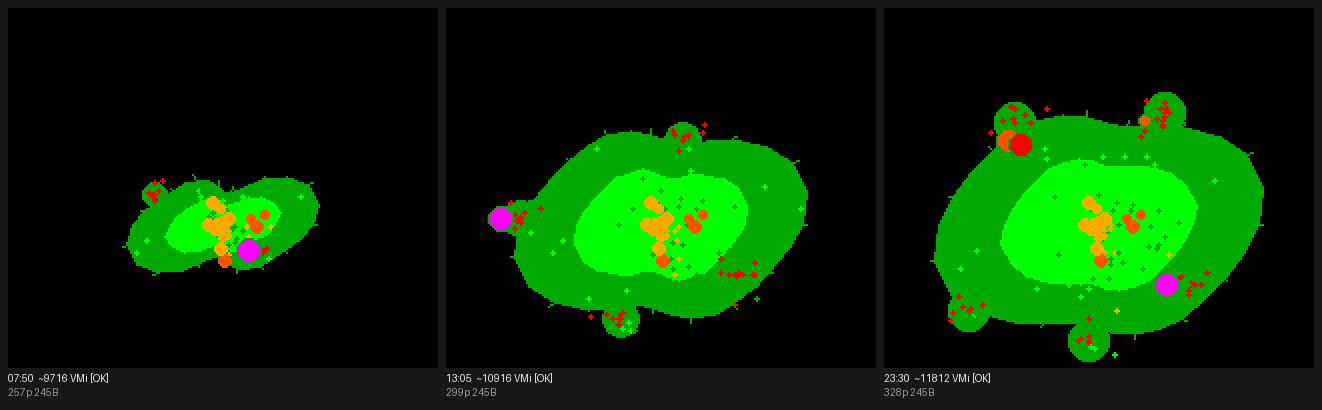
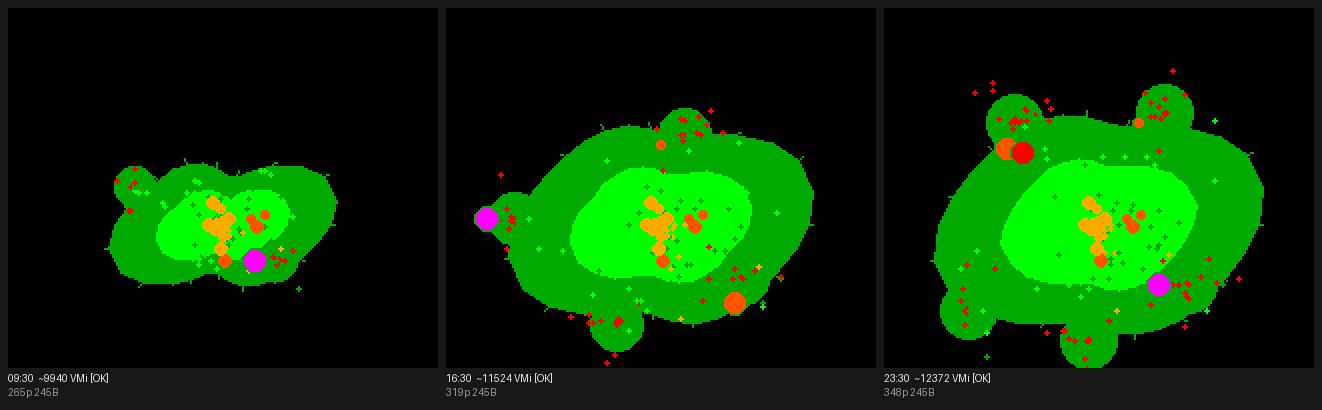
two-worlds V2: enlarge activity clusters (sandbox WIP, pending review)
Bump the satellite tuft size in the moss_grove parity sketch: logical
7+act/320 (cap 16) -> 10+act/240 (cap 23), then the existing 1.25x scale,
so activity clusters read as larger lobed blobs. Sandbox-only; not yet
ported to MossGrove.mc / validated on the sim (awaiting sign-off on the
size). Peak ~13.8k VM-instr/frame (heavy), under the ~25k watchdog.

diff --git a/sketches/algos/moss_grove.py b/sketches/algos/moss_grove.py
@@ -130,9 +130,9 @@ class MossGrove:
         ntuft = idiv(act, TUFT_DIV)
         if ntuft > 7:
             ntuft = 7
-        tsize = 7 + idiv(act, 320)
-        if tsize > 16:
-            tsize = 16
+        tsize = 10 + idiv(act, 240)
+        if tsize > 23:
+            tsize = 23
         tsize = scl(tsize)
 
         # --- central cushion: dark mound + bright green crown ---
